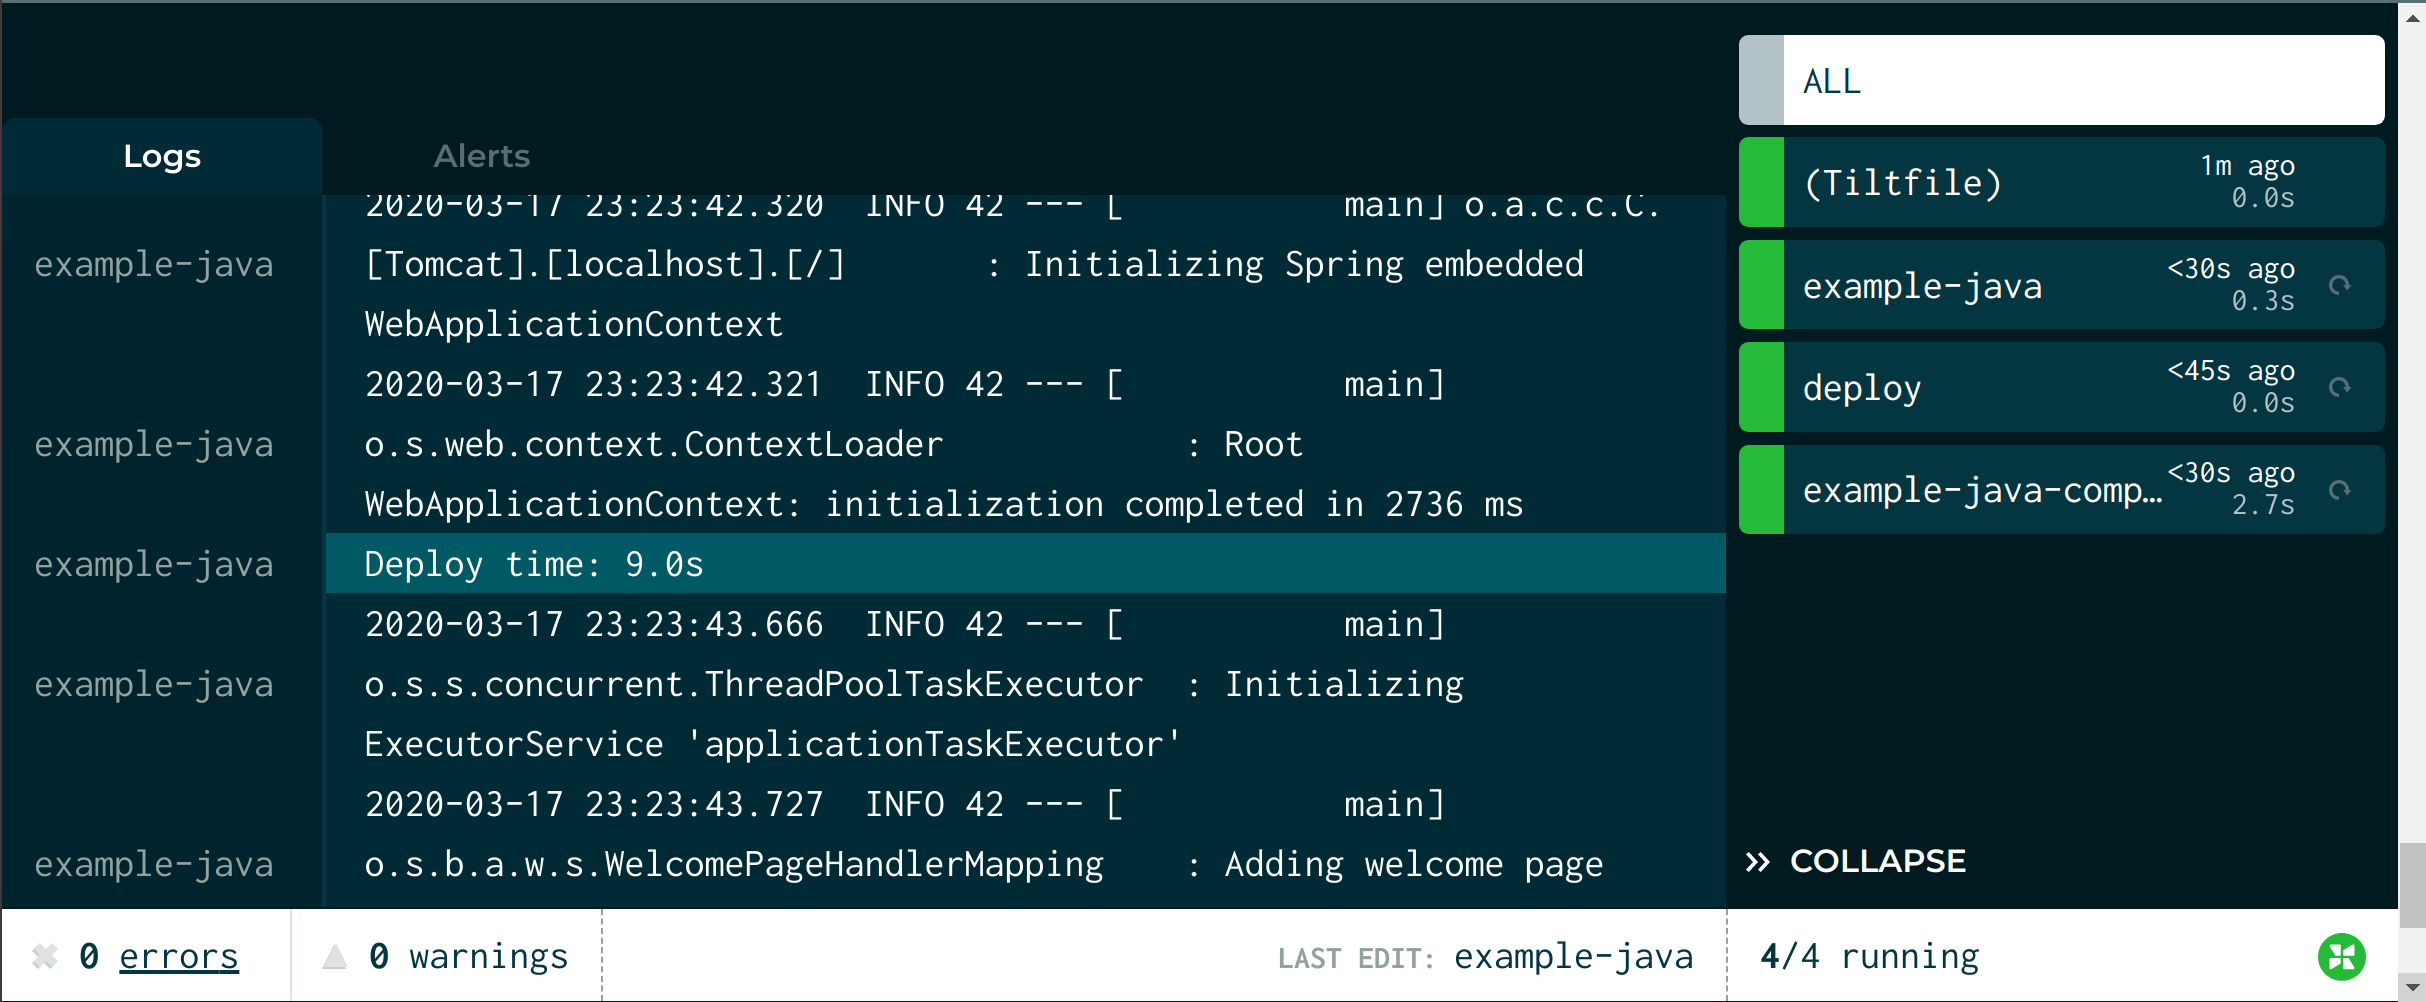
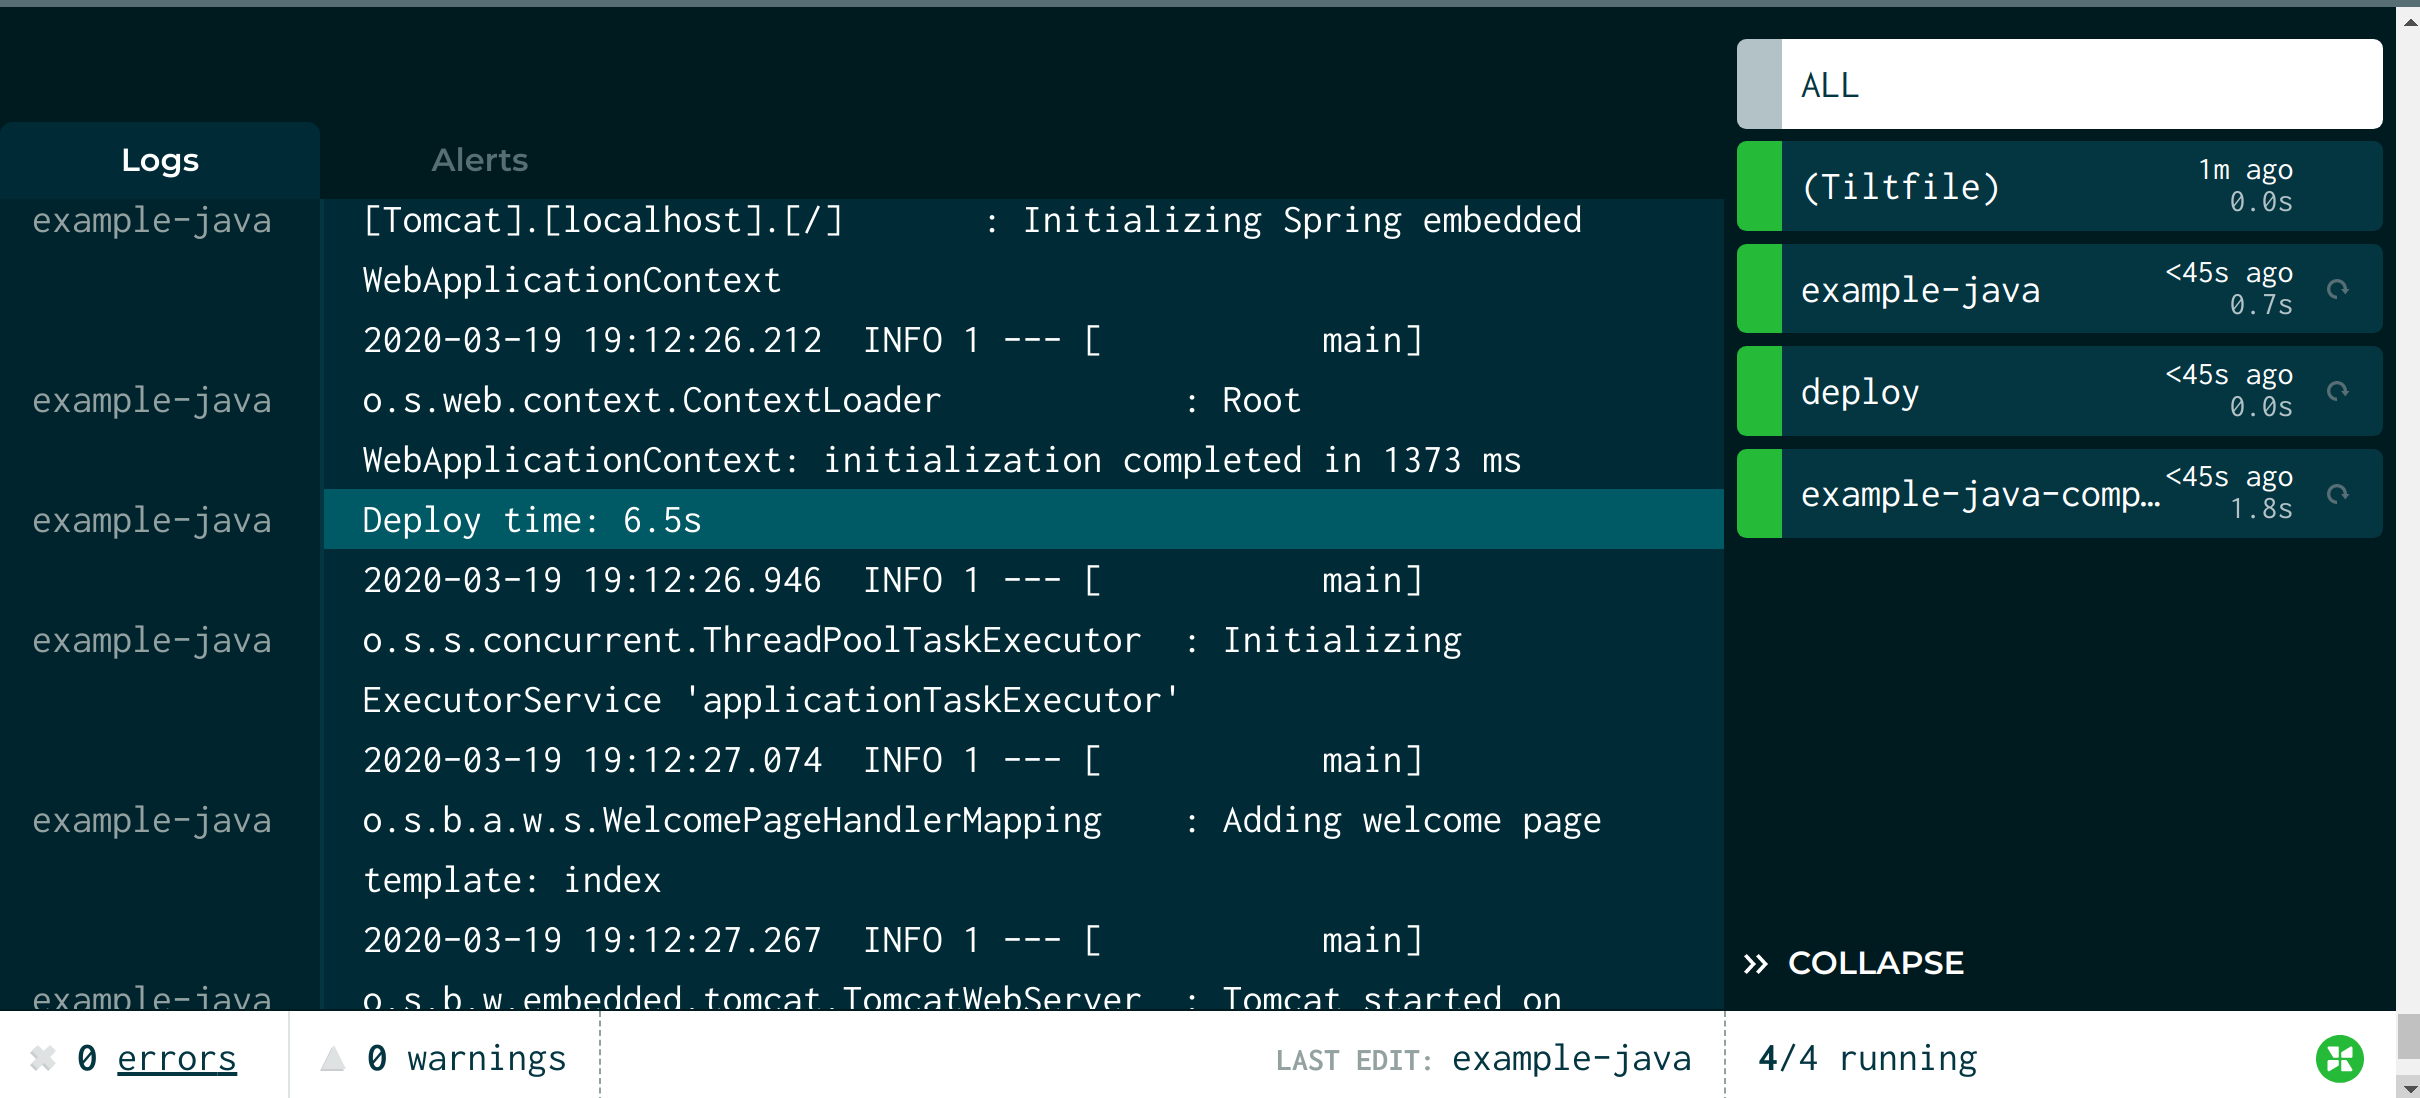
docs: optimize java guide a bit

diff --git a/docs/example_java.md b/docs/example_java.md
@@ -223,47 +223,129 @@ Let's see what this looks like!
 | Local Compile | 13.4s |
 {:.benchmark-report}
 
+## Step 3: Why Is the Docker Build So Slow?
 
-## Step 3: Let's Live Update It
+Currently, our image contains a fat exectuable Jar.
 
-When we make a change to a file, we currently have to build an image, deploy new Kubernetes configs,
-and wait for Kubernetes to schedule the pod.
+If we unpacked the fat Jar, we would find that the Jar contains many files
+internally. These files naturally lend themselves to Docker layers. 
+Java Jars were using layer caches before Docker made them cool. How can we take
+advantage of this?
 
-With Tilt, we can skip all of these steps, and instead
-[live_update](live_update_tutorial.html) the pod in place.
-
-Here's our [new Tiltfile](https://github.com/windmilleng/tilt-example-java/blob/master/3-recommended/Tiltfile) 
-with the following new code:
+We've updated [our
+Tiltfile](https://github.com/windmilleng/tilt-example-java/blob/master/3-unpacked/Tiltfile)
+to unpack the Jar in the `build/jar` directory:
 
 ```python
-docker_build(
-  'example-java-image',
-  './build/libs',
-  dockerfile='./Dockerfile',
-  live_update=[
-    sync('./build/libs', '/app')
-  ],
-  entrypoint = 'find *.jar | entr -r java -jar example-0.0.1-SNAPSHOT.jar')
+local_resource(
+  'example-java-compile',
+  './gradlew bootJar && ' +
+  'unzip -o build/libs/example-0.0.1-SNAPSHOT.jar -d build/jar',
+  deps=['src', 'build.gradle'],
+  resource_deps = ['deploy'])
 ```
 
-We've added a `live_update` parameter to `docker_build()` with a `sync` steps.
-They copy the executable Jars from the `./build/libs` into the container.
+We've also updated our [Dockerfile](https://github.com/windmilleng/tilt-example-java/blob/master/3-unpacked/Dockerfile):
 
-We've also added a new parameter: `entrypoint="find *.jar | entr -r java -jar example-0.0.1-SNAPSHOT.jar"`.
+```
+FROM openjdk:8-jre-alpine
 
-`entr` is a tool that automatically restarts a shell command whenever the watched
-file changes. This command restarts our server every time the pod is updated.
+WORKDIR /app
+ADD BOOT-INF/lib /app/lib
+ADD META-INF /app/META-INF
+ADD BOOT-INF/classes /app
 
-Let's see what this looks like:
+ENTRYPOINT java -cp .:./lib/* dev.tilt.example.ExampleApplication
+```
+
+This Dockerfile adds files from `build/jar` in order from least frequently
+used to most frequently used, to improve caching.
+
+The Dockerfile also has a new the entrypoint to load the main application class,
+since we're no longer using an executable Jar.
+
+Let's see what this looks like!
 
 <figure>
-  <a class="is-image" href="https://cloud.tilt.dev/snapshot/AYrwiucLRvXo5pwSu3A=">
+  <a class="is-image" href="https://cloud.tilt.dev/snapshot/AcaQnucLOBUS4TGQauw=">
     <img src="assets/docimg/example-java-image-4.png">
   </a>
   <figcaption>Step 3 complete. Click the screenshot to see an interactive snapshot.</figcaption>
 </figure>
 
-Tilt was able to update the container in less than 10 seconds!
+| Approach | Deploy Time |
+|---|---|
+| Naive | 87.7s |
+| Local Compile | 13.4s |
+| Optimized Dockerfile | 6.5s |
+{:.benchmark-report}
+
+If you don't want to optimize the Dockerfile yourself,
+check out [Jib](https://github.com/GoogleContainerTools/jib)!
+
+Jib is a Java image builder that re-packs Java Jars as container images using
+similar tricks. There are Jib plugins for Maven and Gradle.  The
+[tilt-example-java](https://github.com/windmilleng/tilt-example-java) repo has
+an example
+[Tiltfile](https://github.com/windmilleng/tilt-example-java/blob/master/101-jib/Tiltfile)
+that uses `custom_build` to generate images with Jib.
+
+## Step 4: Let's Live Update It
+
+When we make a change to a file, we currently have to build an image, deploy new
+Kubernetes configs, and wait for Kubernetes to schedule the pod.
+
+With Tilt, we can skip all of these steps, and instead
+[live_update](live_update_tutorial.html) the pod in place.
+
+Here's our [new Tiltfile](https://github.com/windmilleng/tilt-example-java/blob/master/4-recommended/Tiltfile) 
+with the following new code:
+
+```python
+local_resource(
+  'example-java-compile',
+  './gradlew bootJar && ' +
+  'unzip -o build/libs/example-0.0.1-SNAPSHOT.jar -d build/jar-staging && ' +
+  'rsync --inplace --checksum -r build/jar-staging/ build/jar',
+  deps=['src', 'build.gradle'],
+  resource_deps = ['deploy'])
+  
+docker_build(
+  'example-java-image',
+  './build/jar',
+  dockerfile='./Dockerfile',
+  live_update=[
+    sync('./build/jar/BOOT-INF/lib', '/app/lib'),
+    sync('./build/jar/META-INF', '/app/META-INF'),
+    sync('./build/jar/BOOT-INF/classes', '/app'),
+  ],
+  entrypoint = 'find . | entr -r java -noverify -cp .:./lib/* dev.tilt.example.ExampleApplication')
+```
+
+We've added a `live_update` parameter to `docker_build()` with `sync` steps.
+They copy the library and compiled `.class `files from the `./build/jar`
+directory into the container.
+
+We've also added a new parameter: `entrypoint="find . | entr -r java -noverify -cp .:./lib/* dev.tilt.example.ExampleApplication"`
+
+`entr` is a tool that automatically restarts a shell command whenever the watched
+file changes. This command restarts our server every time the pod is updated.
+
+Lastly, our `local_resource` first unzips the jar to `build/jar-staging`, and
+then uses `rsync --checksum` to copy that to `build/jar`.
+Tilt's live_update will copy any files that have been touched.
+`rsync --checksum` copies the directory, but doesn't touch any files that haven't changed.
+
+Let's see what this looks like:
+
+<figure>
+  <a class="is-image" href="https://cloud.tilt.dev/snapshot/AeKPnucLESM6hHyx8HY=">
+    <img src="assets/docimg/example-java-image-5.png">
+  </a>
+  <figcaption>Step 4 complete. Click the screenshot to see an interactive snapshot.</figcaption>
+</figure>
+
+Tilt was able to update the container in less than 5 seconds!
 
 ## Our Recommendation
 
@@ -273,31 +355,31 @@ Tilt was able to update the container in less than 10 seconds!
 |---|---|
 | Naive | 87.7s |
 | Local Compile | 13.4s |
-| With live_update | 9.0s |
+| Optimized Dockerfile | 6.5s |
+| With live_update | 4.8s |
 {:.benchmark-report}
 
 You can try the server here:
 
-[Recommended Structure](https://github.com/windmilleng/tilt-example-java/blob/master/3-recommended)
+[Recommended Structure](https://github.com/windmilleng/tilt-example-java/blob/master/4-recommended)
 
 Congratulations on finishing this guide!
 
 ### Futher Reading
 
-This guide is still a work in progress. There are more optimizations we want to
-add.
+This guide recommends an approach to Java development that shines with Tilt.
 
-Currently, we use Spring's "fat Jar." If we unpacked the fat Jar, we would find
-that the Jar contains many files internally. These files naturally lend themselves
-to Docker layers. These files could be live-updated into the container individually.
-They could even be live-loaded into the JVM, so that the JVM doesn't need to
-reload the Spring libraries each time.
+There are even more optimizations you can add. Many are toolchain-specific. 
+We've heard that you can get the JVM to hot-reload class files
+(e.g. with [Spring Loaded](https://github.com/spring-projects/spring-loaded)) 
+but we've had mixed results using this with live_update.
 
-For a discussion of Docker optimization, see:
+For more discussion of Docker optimization, see:
 
 - [Spring Boot Docker](https://spring.io/guides/topicals/spring-boot-docker/), a
-  discussion of how to better optimize Spring Boot apps for Docker, but many of
-  the lessons are generally applicable to Java apps.
+  discussion of how to better optimize Spring Boot apps for Docker. We used
+  many of the lessons in this guide. There are still more tricks for improving
+  performance in containers.
 - [Jib](https://github.com/GoogleContainerTools/jib), a Java image builder
   that re-packs Java Jars as container images, and integrates well with
   existing Maven or Gradle builds.
